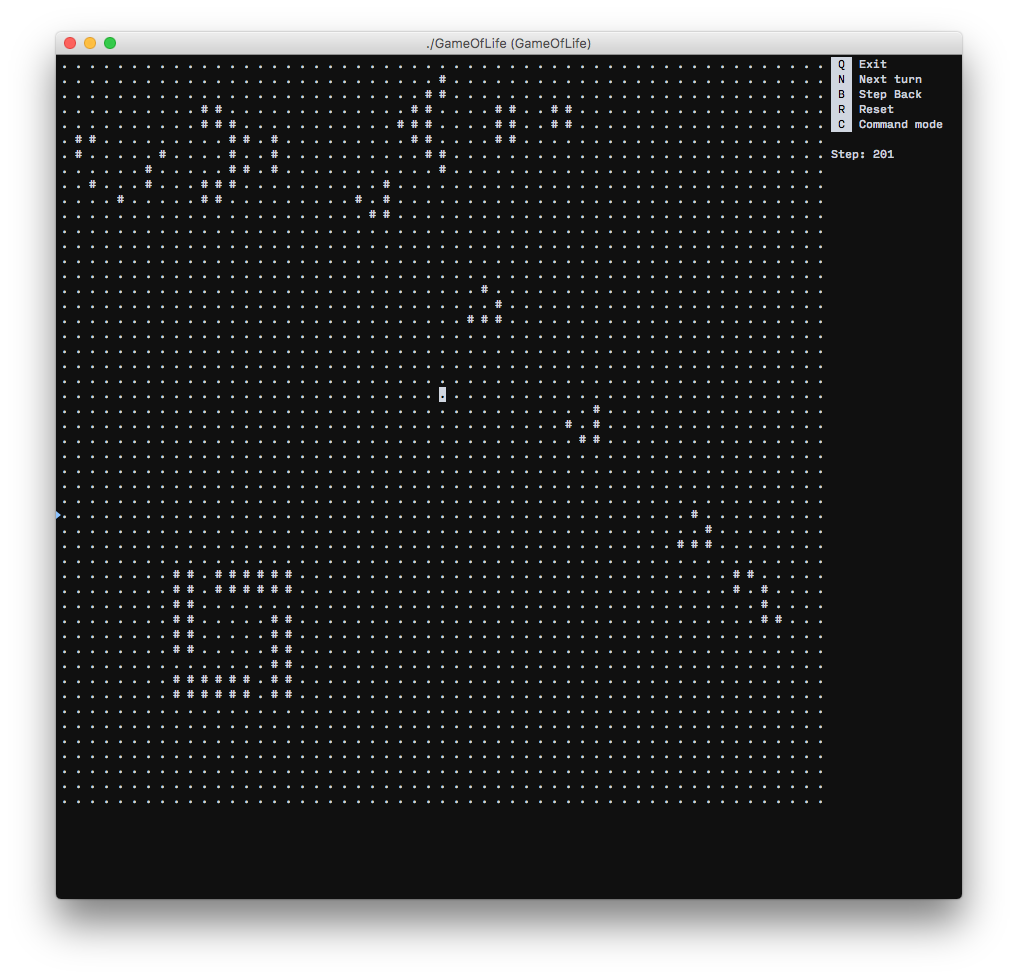
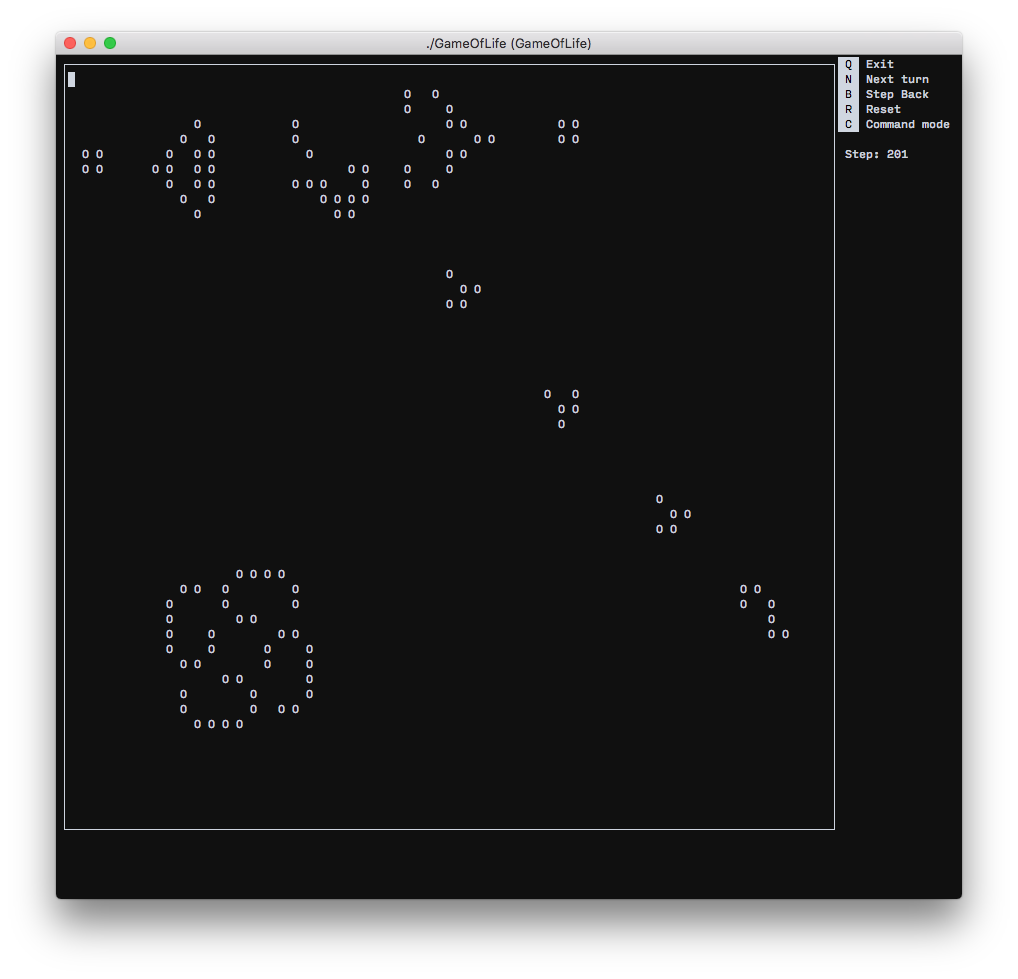
Improved field view and some other code style fixes.

diff --git a/view_handler.cpp b/view_handler.cpp
@@ -6,9 +6,10 @@
 //  Copyright © 2017 Кирилл. All rights reserved.
 //
 
-#include <ncurses.h>
-
 #include "view_handler.h"
+
+const char ALIVE_CELL = 'O';
+const char NO_CELL = ' ';
 
 // Maximum command length in command mode
 const size_t MAX_COMMAND_LEN = 50;
@@ -26,6 +27,8 @@ CursesViewHandler::CursesViewHandler() {
   noecho();
   cbreak();
 
+  fieldWin = newwin(0, 0, 0, 0);
+
   mousemask(BUTTON1_PRESSED, NULL);
   keypad(stdscr, TRUE);
   curs_set(0);
@@ -38,11 +41,16 @@ void CursesViewHandler::updateField(const GameField& field, size_t stepsCount) {
     gameHeight = field.getHeight();
 
     clear();
+    wclear(fieldWin);
+    wresize(fieldWin, static_cast<int>(field.getHeight()) + 2,
+            static_cast<int>(field.getWidth()) * 2 + 1);
+    box(fieldWin, 0, 0);
+    refresh();
 
     // Display hotkey prompts
     int i = 0;
-    const int coloumn = (int)gameWidth * 2;
-    for (std::string prompt : PROMPTS) {
+    const int coloumn = static_cast<int>(gameWidth) * 2 + 1;
+    for (auto prompt : PROMPTS) {
       move(i++, coloumn);
       attron(A_REVERSE);
       printw(" ");
@@ -54,7 +62,8 @@ void CursesViewHandler::updateField(const GameField& field, size_t stepsCount) {
   }
 
   // Display steps count
-  move((int)PROMPTS.size() + 1, (int)gameWidth * 2);
+  move(static_cast<int>(PROMPTS.size()) + 1,
+       static_cast<int>(gameWidth) * 2 + 2);
   clrtoeol();
   printw("Step: %zd", stepsCount);
 
@@ -64,10 +73,11 @@ void CursesViewHandler::updateField(const GameField& field, size_t stepsCount) {
   // Draws field
   for (int i = 0; i < field.getWidth(); i++)
     for (int j = 0; j < field.getHeight(); j++) {
-      move(j, i * 2);
-      delch();
-      insch(field[i][j].isLife() ? '#' : '.');
+      wmove(fieldWin, j + 1, i * 2 + 1);
+      wdelch(fieldWin);
+      winsch(fieldWin, field[i][j].isLife() ? ALIVE_CELL : NO_CELL);
     }
+  wrefresh(fieldWin);
 
   // Draws keyboard cursor
   updateKeyboardCursor(cursorX, cursorY);
@@ -75,17 +85,20 @@ void CursesViewHandler::updateField(const GameField& field, size_t stepsCount) {
 
 void CursesViewHandler::updateKeyboardCursor(size_t posX, size_t posY) {
   if (posX != cursorX || posY != cursorY) {
-    chtype c = mvinch(cursorY, cursorX * 2) & ~A_REVERSE;
-    mvdelch(cursorY, cursorX * 2);
-    mvinsch(cursorY, cursorX * 2, c);
+    chtype c = mvwinch(fieldWin, cursorY + 1, cursorX * 2 + 1) & ~A_REVERSE;
+    mvwdelch(fieldWin, cursorY + 1, cursorX * 2 + 1);
+    mvwinsch(fieldWin, cursorY + 1, cursorX * 2 + 1, c);
   }
 
   cursorX = posX;
   cursorY = posY;
 
-  chtype c = mvinch(cursorY, cursorX * 2) | A_REVERSE;
-  mvdelch(cursorY, cursorX * 2);
-  mvinsch(cursorY, cursorX * 2, c);
+  chtype c = mvwinch(fieldWin, cursorY + 1, cursorX * 2 + 1) | A_REVERSE;
+  mvwdelch(fieldWin, cursorY + 1, cursorX * 2 + 1);
+  mvwinsch(fieldWin, cursorY + 1, cursorX * 2 + 1, c);
+
+  box(fieldWin, 0, 0);
+  wrefresh(fieldWin);
 }
 
 static std::string replace(const std::string& str,
@@ -109,7 +122,7 @@ void CursesViewHandler::updateCommandLine(const std::string& commandOutput) {
 }
 
 std::string CursesViewHandler::readCommandInput() {
-  move((int)gameHeight + 1, 0);
+  move(static_cast<int>(gameHeight) + 3, 0);
   clrtobot();
   printw(">> ");
   keypad(stdscr, FALSE);
@@ -142,7 +155,7 @@ const InputResult CursesViewHandler::waitForInput(uint8_t timeout) {
     if (event == KEY_MOUSE) {
       if (getmouse(&mouse) == OK) {
         int x = mouse.x / 2;
-        int y = mouse.y;
+        int y = mouse.y - 1;
         repeat = x >= gameWidth || y >= gameHeight;
         if (!repeat)
           result = InputResult(x, y);
@@ -165,7 +178,7 @@ const InputResult CursesViewHandler::waitForInput(uint8_t timeout) {
 
 static size_t getMaxPromptWidth() {
   size_t max = 0;
-  for (std::string prompt : PROMPTS)
+  for (auto prompt : PROMPTS)
     if (prompt.size() > max)
       max = prompt.size();
   return max + 2;  // To the length 2 spaces are added, framing the symbol of
@@ -183,15 +196,18 @@ bool CursesViewHandler::canCrateFieldWithSizes(size_t fieldWidth,
       PROMPTS.size() + 2;  // Offset for displaying the number of steps
   size_t height = fieldHeight > promptsHeight ? fieldHeight : promptsHeight;
   height += 2;  // Offset for command mode displaying
+  height += 2;  // Offset for field boards
+  width += 2;   // Offset for field boards
   return maxWidth >= width && maxHeight >= height;
 }
 
 void CursesViewHandler::drawCommandLine() const {
-  move((int)gameHeight + 1, 0);
+  move(static_cast<int>(gameHeight) + 2, 0);
   clrtobot();
   printw(commandLine.c_str());
 }
 
 CursesViewHandler::~CursesViewHandler() {
+  delwin(fieldWin);
   endwin();
 }

diff --git a/tests/test_game_handler.cpp b/tests/test_game_handler.cpp
@@ -56,11 +56,11 @@ private:
     const GameField* sample = nullptr;
 };
 
-void testWrongParseField(std::string str) {
+void testWrongParseField(const std::string& str) {
     ASSERT_THROW(const GameField field(str), BadGameFieldException);
 }
 
-void testParseField(std::string str) {
+void testParseField(const std::string& str) {
     const GameField field(str);
     ASSERT_EQ(str, fieldToString(field));
 }
@@ -74,7 +74,7 @@ void placeFieldOnField(GameField& to, const GameField& from) {
                 to[i][j].kill();
 }
 
-void testGameStep(std::string from, std::string to) {
+void testGameStep(const std::string& from, const std::string& to) {
     TestingListener catcher;
     GameField fieldFrom(from);
     GameField bigFrom(10, 10);

diff --git a/game_handler.cpp b/game_handler.cpp
@@ -228,7 +228,8 @@ int GameManager::runGame() {
       else
         onKeyPressed(result.getKey());
     } else
-      onMousePressed((int)result.getPosX(), (int)result.getPosY());
+      onMousePressed(static_cast<int>(result.getPosX()),
+                     static_cast<int>(result.getPosY()));
   }
 
   return 0;
@@ -418,7 +419,7 @@ void GameManager::onKeyPressed(int key) {
       executionInCommandMode();
       break;
     case KEY_ENTER:
-      setCellAt((int)cursorX, (int)cursorY);
+      setCellAt(static_cast<int>(cursorX), static_cast<int>(cursorY));
       break;
     case KEY_LEFT:
     case KEY_RIGHT:

diff --git a/game_field.cpp b/game_field.cpp
@@ -48,7 +48,7 @@ GameField::GameField(size_t width, size_t height)
     field[i] = std::vector<bool>(height);
 }
 
-GameField::GameField(const std::string str) {
+GameField::GameField(const std::string& str) {
   field.push_back(std::vector<bool>());
   size_t line = 0;
   size_t maxWidth = 0;
@@ -75,7 +75,6 @@ GameField::GameField(const std::string str) {
         currWidth++;
         field[line].push_back(false);
         break;
-      case ' ':
       case '\r':
         continue;
       default:

diff --git a/view_handler.h b/view_handler.h
@@ -9,6 +9,8 @@
 #ifndef VIEW_HANDLER_H
 #define VIEW_HANDLER_H
 
+#include <ncurses.h>
+
 #include "game_handler.h"
 
 const std::vector<std::string> PROMPTS = {
@@ -33,6 +35,8 @@ class CursesViewHandler : public ViewHandler {
   ~CursesViewHandler();
 
  private:
+  WINDOW* fieldWin;
+
   // Commandline output
   std::string commandLine;
 

diff --git a/game_field.h b/game_field.h
@@ -39,7 +39,7 @@ class GameField {
    *
    * @param str String for parse.
    */
-  GameField(const std::string str);
+  GameField(const std::string& str);
 
   SubGameField operator[](int pos);
 
